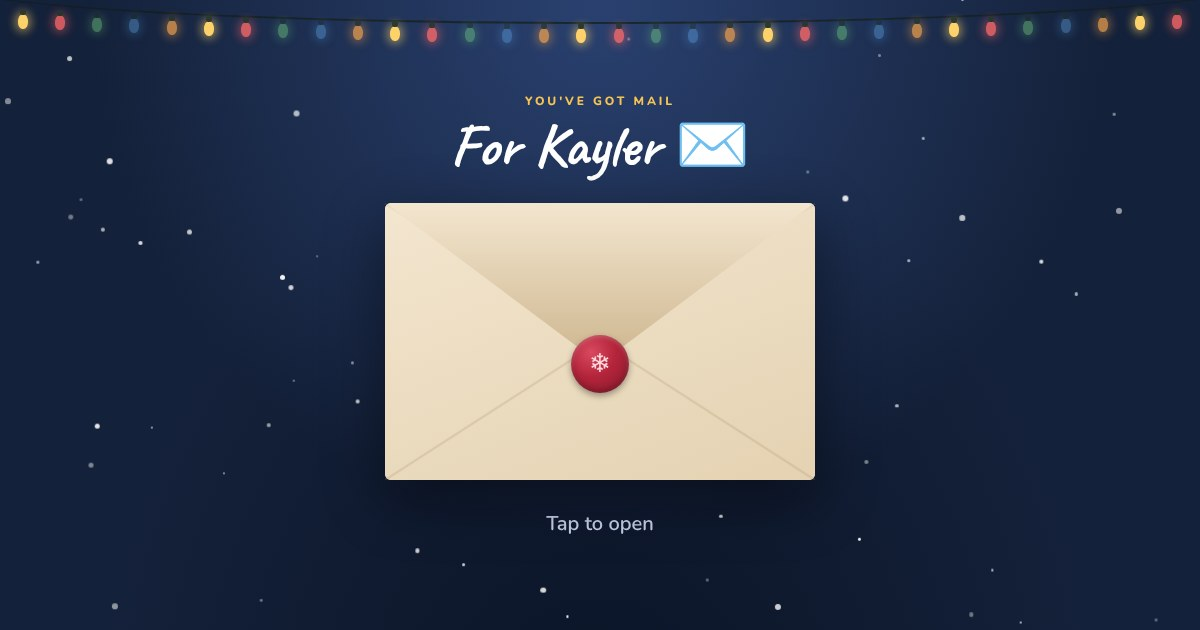
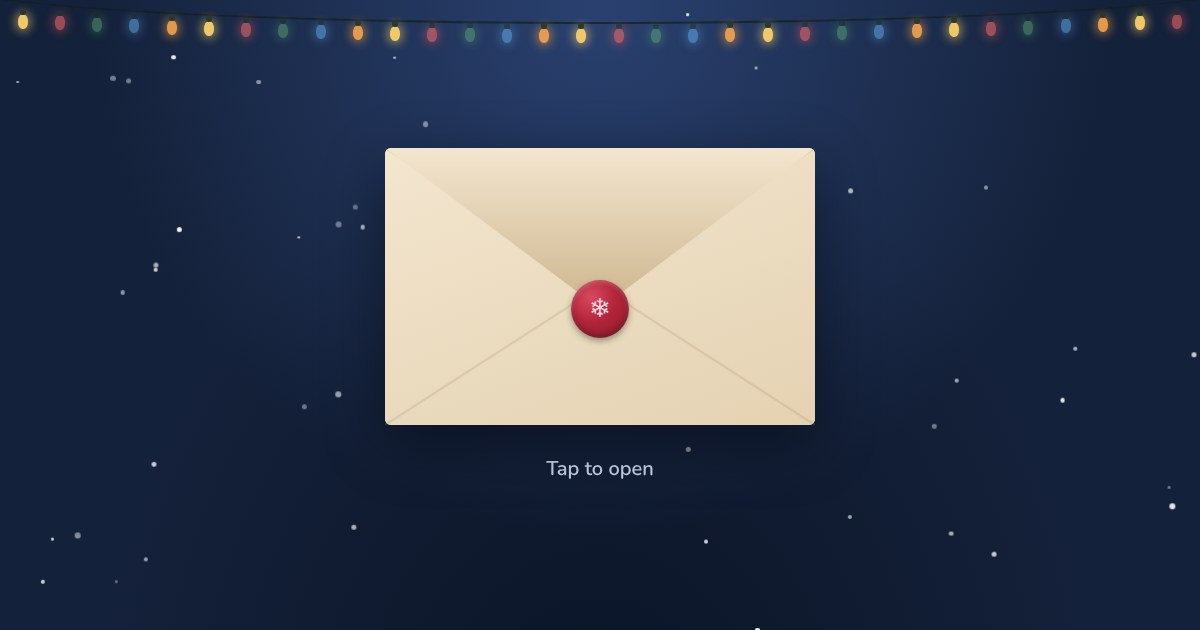
Invitation: envelope only to start, tonight's forecast, 'save room for treats', pickup 6:30
Claude-Session: https://claude.ai/code/session_01Qx4KaktagR1RJFupRaL8Py

diff --git a/invite/script.js b/invite/script.js
@@ -7,7 +7,7 @@ const INVITE = {
   myName: "Brian",
   myPhone: "+14694346426",
   when: "Tonight · Tuesday, Nov 24",
-  pickup: "6:15 PM",
+  pickup: "6:30 PM",
   pickupWhere: "your place",
 };
 
@@ -55,9 +55,10 @@ function letterHTML() {
       <div class="row"><span class="ic">🗓</span><span><b>When</b>${esc(INVITE.when)}</span></div>
       <div class="row"><span class="ic">🚗</span><span><b>Pickup</b>${esc(INVITE.pickup)} at ${esc(INVITE.pickupWhere)}</span></div>
       <div class="row"><span class="ic">📍</span><span><b>Where</b><span class="classified">top secret place</span><small>(classified)</small></span></div>
+      <div class="row"><span class="ic">🌙</span><span><b>Tonight's forecast</b>Chilly: 37° at 7 PM, dropping to about 34° by 10 PM. Partly cloudy, barely any wind.</span></div>
       <div class="row"><span class="ic">🧣</span><span><b>Dress code</b>Cozy and warm: a good coat, gloves, a beanie, and your warmest socks. Wear something you can move around in.</span></div>
       <div class="row"><span class="ic">✨</span><span><b>Also</b>Look cute. (Easy for you.)</span></div>
-      <div class="row"><span class="ic">🍫</span><span><b>Come hungry</b>Save room for delicious treats.</span></div>
+      <div class="row"><span class="ic">🍫</span><span><b>Save room</b>For some delicious treats.</span></div>
     </div>
 
     <p class="sign">See you soon,<br />${esc(INVITE.myName)}</p>
@@ -89,6 +90,7 @@ env.addEventListener("click", () => {
     intro.hidden = true;
     letter.innerHTML = letterHTML();
     letter.hidden = false;
+    document.querySelector(".stage").classList.add("reading");
     window.scrollTo({ top: 0, behavior: "auto" });
     document.getElementById("again").onclick = reset;
   }, 2150 * t);
@@ -97,6 +99,7 @@ env.addEventListener("click", () => {
 function reset() {
   opened = false;
   letter.hidden = true;
+  document.querySelector(".stage").classList.remove("reading");
   intro.hidden = false;
   env.classList.remove("opening", "pulling");
   intro.classList.remove("opening");

diff --git a/invite/index.html b/invite/index.html
@@ -18,7 +18,7 @@
   <link rel="preconnect" href="https://fonts.googleapis.com" />
   <link rel="preconnect" href="https://fonts.gstatic.com" crossorigin />
   <link href="https://fonts.googleapis.com/css2?family=Caveat:wght@600;700&family=Nunito:wght@400;600;700;800&display=swap" rel="stylesheet" />
-  <link rel="stylesheet" href="style.css?v=2" />
+  <link rel="stylesheet" href="style.css?v=3" />
 </head>
 <body>
   <div class="lights" aria-hidden="true"></div>
@@ -26,9 +26,6 @@
 
   <main class="stage">
     <section class="intro" id="intro">
-      <p class="kicker">You've got mail</p>
-      <h1>For Kayler ✉</h1>
-
       <button class="envelope" id="envelope" aria-label="Open the envelope">
         <span class="env-back"></span>
         <span class="peek" id="peek">
@@ -46,6 +43,6 @@
     <article class="letter" id="letter" hidden aria-live="polite"></article>
   </main>
 
-  <script src="script.js?v=2"></script>
+  <script src="script.js?v=3"></script>
 </body>
 </html>

diff --git a/invite/style.css b/invite/style.css
@@ -181,3 +181,6 @@ h1 { margin: 0 0 34px; font-family: "Caveat", cursive; font-weight: 700; font-si
 /* fade the title as the flap opens so they never overlap */
 .kicker, h1 { transition: opacity 0.35s ease; }
 .intro.opening .kicker, .intro.opening h1 { opacity: 0; }
+
+/* once the letter is open, start it near the top instead of centering */
+.stage.reading { justify-content: flex-start; }
